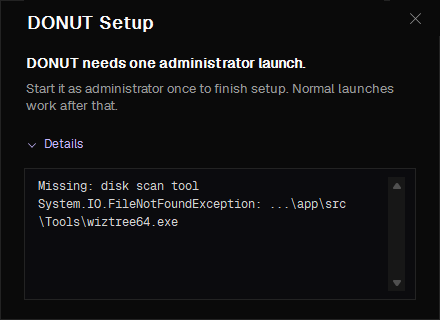
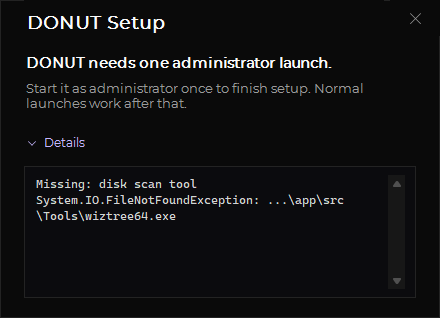
feat: cards breathe again, offline shows once, the copy pill hugs its value, and labels wear their case

diff --git a/src/UI/Views/Home/StatCards.xaml b/src/UI/Views/Home/StatCards.xaml
@@ -23,41 +23,42 @@
     <ColumnDefinition Width="*" />
   </Grid.ColumnDefinitions>
 
-  <Border Grid.Column="0" Margin="0,0,6,0" Style="{DynamicResource Card}">
+  <!-- Equal ink gaps, measured on a render: 16 between the lines, 18 to the edges; the copy pill's 2px chrome is why its margin is 6, not 8. -->
+  <Border Grid.Column="0" Margin="0,0,6,0" Style="{DynamicResource Card}" Padding="16,14,16,12">
     <StackPanel>
       <TextBlock Text="MACHINE" Style="{DynamicResource MicroLabel}" />
       <TextBox Text="{Binding SelectedMachine.OvModel, FallbackValue=—}" ToolTip="{Binding SelectedMachine.OvModel}"
                  Style="{DynamicResource StatValue}" />
-      <TextBox Style="{DynamicResource CopyableValue}" Text="{Binding SelectedMachine.OvModelSub, FallbackValue='no machine selected'}"
+      <TextBox Style="{DynamicResource CopyableValue}" Text="{Binding SelectedMachine.OvModelSub, FallbackValue='No machine selected'}"
                Tag="{Binding SelectedMachine.OvModelSubValue}" FontFamily="{DynamicResource FontSans}" FontSize="12"
-               Foreground="{DynamicResource BodyTextTertiary}" Margin="-4,2,0,0" />
+               Foreground="{DynamicResource BodyTextTertiary}" Margin="-5,6,0,0" />
     </StackPanel>
   </Border>
 
-  <Border Grid.Column="1" Margin="6,0,6,0" Style="{DynamicResource Card}">
+  <Border Grid.Column="1" Margin="6,0,6,0" Style="{DynamicResource Card}" Padding="16,14,16,12">
     <StackPanel>
       <TextBlock Text="BATTERY HEALTH" Style="{DynamicResource MicroLabel}" />
       <TextBox Text="{Binding SelectedMachine.OvBattery, FallbackValue=—}" ToolTip="{Binding SelectedMachine.OvBattery}"
                  Style="{DynamicResource StatValue}" />
       <TextBox Style="{DynamicResource SelectableText}" Text="{Binding SelectedMachine.OvBatterySub}"
                ToolTip="{Binding SelectedMachine.OvBatterySub}" FontFamily="{DynamicResource FontSans}" FontSize="12"
-               Foreground="{DynamicResource BodyTextTertiary}" Margin="0,2,0,0" />
+               Foreground="{DynamicResource BodyTextTertiary}" Margin="0,8,0,0" />
     </StackPanel>
   </Border>
 
-  <Border Grid.Column="2" Margin="6,0,6,0" Style="{DynamicResource Card}">
+  <Border Grid.Column="2" Margin="6,0,6,0" Style="{DynamicResource Card}" Padding="16,14,16,12">
     <StackPanel>
       <TextBlock Text="DISK" Style="{DynamicResource MicroLabel}" />
       <TextBox Text="{Binding SelectedMachine.OvDisk, FallbackValue=—}" ToolTip="{Binding SelectedMachine.OvDisk}"
                  Style="{DynamicResource StatValue}" />
       <TextBox Style="{DynamicResource SelectableText}" Text="{Binding SelectedMachine.OvDiskSub}"
                ToolTip="{Binding SelectedMachine.OvDiskSub}" FontFamily="{DynamicResource FontSans}" FontSize="12"
-               Foreground="{DynamicResource BodyTextTertiary}" Margin="0,2,0,0" />
+               Foreground="{DynamicResource BodyTextTertiary}" Margin="0,8,0,0" />
     </StackPanel>
   </Border>
 
   <!-- BIOS, not the update count, which the machine card and updates card already show. -->
-  <Border Grid.Column="3" Margin="6,0,0,0" Style="{DynamicResource Card}">
+  <Border Grid.Column="3" Margin="6,0,0,0" Style="{DynamicResource Card}" Padding="16,14,16,12">
     <StackPanel>
       <TextBlock Text="BIOS" Style="{DynamicResource MicroLabel}" />
       <TextBox Text="{Binding SelectedMachine.OvBios, FallbackValue=—}" ToolTip="{Binding SelectedMachine.OvBios}"

diff --git a/src/UI/Views/Home/LensPane.xaml b/src/UI/Views/Home/LensPane.xaml
@@ -63,36 +63,36 @@
         <RowDefinition Height="Auto" />
         <RowDefinition Height="Auto" />
       </Grid.RowDefinitions>
-      <Border Grid.Row="0" Grid.Column="0" Style="{DynamicResource Card}" Padding="12,8" Margin="0,0,6,12">
+      <Border Grid.Row="0" Grid.Column="0" Style="{DynamicResource Card}" Padding="12,10" Margin="0,0,6,12">
         <StackPanel>
           <TextBlock Text="EMAIL" Style="{DynamicResource MicroLabel}" />
           <TextBox Style="{DynamicResource CopyableValue}" Text="{Binding Email}" Tag="{Binding Email}"
                    FontFamily="{DynamicResource FontMono}" FontSize="12"
-                   Foreground="{DynamicResource TitleTextPrimary}" Margin="-4,3,0,0" />
+                   Foreground="{DynamicResource TitleTextPrimary}" Margin="-5,4,0,0" />
         </StackPanel>
       </Border>
-      <Border Grid.Row="0" Grid.Column="1" Style="{DynamicResource Card}" Padding="12,8" Margin="6,0,0,12">
+      <Border Grid.Row="0" Grid.Column="1" Style="{DynamicResource Card}" Padding="12,10" Margin="6,0,0,12">
         <StackPanel>
           <TextBlock Text="MANAGER" Style="{DynamicResource MicroLabel}" />
           <TextBox Style="{DynamicResource SelectableText}" Text="{Binding Manager}" ToolTip="{Binding Manager}"
                    FontFamily="{DynamicResource FontSans}" FontSize="13"
-                   Foreground="{DynamicResource TitleTextPrimary}" Margin="0,3,0,0" />
+                   Foreground="{DynamicResource TitleTextPrimary}" Margin="0,4,0,0" />
         </StackPanel>
       </Border>
-      <Border Grid.Row="1" Grid.Column="0" Style="{DynamicResource Card}" Padding="12,8" Margin="0,0,6,0">
+      <Border Grid.Row="1" Grid.Column="0" Style="{DynamicResource Card}" Padding="12,10" Margin="0,0,6,0">
         <StackPanel>
           <TextBlock Text="SAM" Style="{DynamicResource MicroLabel}" />
           <TextBox Style="{DynamicResource CopyableValue}" Text="{Binding Sam}" Tag="{Binding Sam}"
                    FontFamily="{DynamicResource FontMono}" FontSize="12"
-                   Foreground="{DynamicResource TitleTextPrimary}" Margin="-4,3,0,0" />
+                   Foreground="{DynamicResource TitleTextPrimary}" Margin="-5,4,0,0" />
         </StackPanel>
       </Border>
-      <Border Grid.Row="1" Grid.Column="1" Style="{DynamicResource Card}" Padding="12,8" Margin="6,0,0,0">
+      <Border Grid.Row="1" Grid.Column="1" Style="{DynamicResource Card}" Padding="12,10" Margin="6,0,0,0">
         <StackPanel>
           <TextBlock Text="OFFICE" Style="{DynamicResource MicroLabel}" />
           <TextBox Style="{DynamicResource SelectableText}" Text="{Binding Office}" ToolTip="{Binding Office}"
                    FontFamily="{DynamicResource FontSans}" FontSize="13"
-                   Foreground="{DynamicResource TitleTextPrimary}" TextWrapping="Wrap" Margin="0,3,0,0" />
+                   Foreground="{DynamicResource TitleTextPrimary}" TextWrapping="Wrap" Margin="0,4,0,0" />
         </StackPanel>
       </Border>
     </Grid>

diff --git a/src/UI/Views/Home/DetailPane.xaml b/src/UI/Views/Home/DetailPane.xaml
@@ -46,7 +46,7 @@
       </Grid.RowDefinitions>
 
       <!-- Job progress lives on the terminal's bar below, never in this header. -->
-      <Grid Grid.Row="0" Margin="0,0,0,12">
+      <Grid Grid.Row="0" Margin="0,0,0,14">
         <Grid.ColumnDefinitions>
           <ColumnDefinition Width="*" />
           <ColumnDefinition Width="Auto" />
@@ -54,17 +54,17 @@
           <ColumnDefinition Width="Auto" />
         </Grid.ColumnDefinitions>
         <StackPanel Grid.Column="0" VerticalAlignment="Center" HorizontalAlignment="Left">
-          <!-- Tag is HostName, never DetailTitle, which appends an offline suffix for display. -->
-          <TextBox Style="{DynamicResource CopyableValue}" Text="{Binding SelectedMachine.DetailTitle}"
+          <!-- Offline shows on the card's chip alone, so the title is the bare hostname. -->
+          <TextBox Style="{DynamicResource CopyableValue}" Text="{Binding SelectedMachine.HostName}"
                    Tag="{Binding SelectedMachine.HostName}"
                    FontFamily="{DynamicResource FontSans}" FontSize="18"
                    FontWeight="Bold" Foreground="{DynamicResource TitleTextPrimary}" />
           <!-- IP and uptime: the liveness facts. Probe freshness already shows on the card. -->
-          <StackPanel Orientation="Horizontal" Margin="0,2,0,0">
+          <StackPanel Orientation="Horizontal" Margin="0,4,0,0">
             <TextBox Style="{DynamicResource CopyableValue}" Text="{Binding SelectedMachine.DetailIp}"
                      Tag="{Binding SelectedMachine.DetailIp}"
                      FontFamily="{DynamicResource FontSans}" FontSize="11"
-                     Foreground="{DynamicResource BodyTextTertiary}" Margin="-4,0,0,0" />
+                     Foreground="{DynamicResource BodyTextTertiary}" Margin="-5,0,0,0" />
             <TextBlock Text="{Binding SelectedMachine.OvUptime, StringFormat=' · {0}'}"
                        VerticalAlignment="Center">
               <TextBlock.Style>

diff --git a/src/UI/Styles/ModernControls.xaml b/src/UI/Styles/ModernControls.xaml
@@ -113,17 +113,23 @@
                 Value="Copy" />
         <Setter Property="Padding"
                 Value="4,1" />
+        <!-- -5 = the pill's 1px border + its 4px padding, so the text sits on the value's origin. -->
         <Setter Property="Margin"
-                Value="-4,0,0,0" />
+                Value="-5,0,0,0" />
+        <!-- The pill hugs the value with equal side padding; the cap keeps a long one clipped. -->
+        <Setter Property="HorizontalAlignment"
+                Value="Left" />
+        <Setter Property="MaxWidth"
+                Value="{Binding ActualWidth, RelativeSource={RelativeSource AncestorType={x:Type Panel}}}" />
         <Setter Property="Template">
             <Setter.Value>
                 <ControlTemplate TargetType="TextBox">
+                    <!-- No Padding here: the TextBox already applies its own inside the content host. -->
                     <Border x:Name="pill"
                             Background="Transparent"
                             BorderBrush="Transparent"
                             BorderThickness="1"
-                            CornerRadius="5"
-                            Padding="{TemplateBinding Padding}">
+                            CornerRadius="5">
                         <ScrollViewer x:Name="PART_ContentHost"
                                       Focusable="False"
                                       HorizontalScrollBarVisibility="Hidden"
@@ -171,8 +177,9 @@
                 Value="SemiBold" />
         <Setter Property="Foreground"
                 Value="{DynamicResource TitleTextPrimary}" />
+        <!-- Montserrat sits taller than Segoe UI: 10 here is 16 of ink gap under the label. -->
         <Setter Property="Margin"
-                Value="0,6,0,0" />
+                Value="0,10,0,0" />
     </Style>
     <!-- Strips the default selection visuals, the row templates draw their own. -->
     <Style x:Key="MachineListItem"

diff --git a/src/UI/Views/Home/MachinePane.xaml b/src/UI/Views/Home/MachinePane.xaml
@@ -17,7 +17,7 @@
     </Grid.RowDefinitions>
 
     <!-- Mirrors the detail pane's [title | buttons] row so the two panes read as a pair. -->
-    <Grid Grid.Row="0" Margin="14,12,14,10">
+    <Grid Grid.Row="0" Margin="14,14,14,12">
       <TextBlock Text="Machines" Style="{DynamicResource TextPaneTitle}"
                  HorizontalAlignment="Left" VerticalAlignment="Center" />
       <Button x:Name="btnClearTabs" Content="Clear" Style="{DynamicResource ButtonSecondary}"
@@ -41,7 +41,7 @@
         <ListBox.ItemTemplate>
           <DataTemplate>
             <Border Margin="0,0,0,8" CornerRadius="10"
-                    Padding="14,10,8,10" HorizontalAlignment="Stretch" Cursor="Hand">
+                    Padding="14,12,8,12" HorizontalAlignment="Stretch" Cursor="Hand">
               <Border.Style>
                 <Style TargetType="Border">
                   <Setter Property="Background" Value="{DynamicResource PanelBackground}" />
@@ -99,7 +99,7 @@
                     </TextBlock>
                   </StackPanel>
                   <TextBlock Text="{Binding Subtitle}" Foreground="{DynamicResource BodyTextTertiary}"
-                             FontFamily="{DynamicResource FontMono}" FontSize="11"
+                             FontFamily="{DynamicResource FontMono}" FontSize="11" Margin="0,3,0,0"
                              TextTrimming="CharacterEllipsis" ToolTip="{Binding Subtitle}" />
                 </StackPanel>
                 <!-- No progress bar here, the live one sits atop the detail pane's terminal. -->

diff --git a/src/UI/Views/LoginWindow.xaml b/src/UI/Views/LoginWindow.xaml
@@ -1,6 +1,6 @@
 <Window xmlns="http://schemas.microsoft.com/winfx/2006/xaml/presentation"
         xmlns:x="http://schemas.microsoft.com/winfx/2006/xaml"
-        Title="Sign in"
+        Title="Sign In"
         SizeToContent="Height"
         Width="440"
         WindowStartupLocation="CenterScreen"
@@ -39,7 +39,7 @@
                   Grid.Row="0"
                   Background="Transparent"
                   Height="48">
-                <TextBlock Text="Sign in to GitHub"
+                <TextBlock Text="Sign In to GitHub"
                            Style="{DynamicResource TextPaneTitle}"
                            VerticalAlignment="Center"
                            HorizontalAlignment="Left"
@@ -117,7 +117,7 @@
                                TextDecorations="None">Create an account</Hyperlink>
                 </TextBlock>
                 <Button Command="{Binding AuthCommand}"
-                        Content="Sign in with GitHub"
+                        Content="Sign In with GitHub"
                         Style="{DynamicResource ButtonTintPrimary}"
                         Height="32"
                         MinWidth="150"

diff --git a/src/UI/Views/MainWindow.xaml b/src/UI/Views/MainWindow.xaml
@@ -299,7 +299,7 @@
                                          FontFamily="{DynamicResource FontMono}"
                                          FontSize="12"
                                          Foreground="{DynamicResource TitleTextPrimary}"
-                                         Margin="-4,3,0,0" />
+                                         Margin="-5,3,0,0" />
                             </StackPanel>
                         </Border>
                         <Border Grid.Column="1"
@@ -315,7 +315,7 @@
                                          FontFamily="{DynamicResource FontMono}"
                                          FontSize="12"
                                          Foreground="{DynamicResource TitleTextPrimary}"
-                                         Margin="-4,3,0,0" />
+                                         Margin="-5,3,0,0" />
                             </StackPanel>
                         </Border>
                     </Grid>

diff --git a/src/UI/Views/Settings/UpdateOptionsView.xaml b/src/UI/Views/Settings/UpdateOptionsView.xaml
@@ -22,7 +22,7 @@
                        Style="{DynamicResource SettingsFieldLabel}"
                        Margin="0,0,0,8" />
             <WrapPanel x:Name="updateType">
-                <CheckBox Content="Bios" Style="{DynamicResource ChipCheckBox}" />
+                <CheckBox Content="BIOS" Style="{DynamicResource ChipCheckBox}" />
                 <CheckBox Content="Firmware" Style="{DynamicResource ChipCheckBox}" />
                 <CheckBox Content="Driver" Style="{DynamicResource ChipCheckBox}" />
                 <CheckBox Content="Application" Style="{DynamicResource ChipCheckBox}" />

diff --git a/src/UI/Styles/Tokens.xaml b/src/UI/Styles/Tokens.xaml
@@ -31,7 +31,7 @@
         <Setter Property="CornerRadius"
                 Value="10" />
         <Setter Property="Padding"
-                Value="16,14" />
+                Value="16,16" />
     </Style>
 
     <!-- The centered card every overlay pops. Instances set Width and x:Name only. -->

diff --git a/docs/development/ui-reference.md b/docs/development/ui-reference.md
@@ -23,8 +23,8 @@ Two capitalization schemes, chosen by what the text *is*:
 
 | Scheme | Applies to | Example |
 |---|---|---|
-| **Title Case** | Buttons, menu items, headings, pane and section titles, tab and segment names, setting labels, dialog titles | `Clear Selected`, `Run All`, `Reveal Key`, `Close to Tray` |
-| **Sentence case** | Tooltips, hint and helper text, blank-slate copy, dialog message bodies, toasts | `Clears the folder contents and keeps the folder.` |
+| **Title Case** | Buttons, links that act, menu items, headings, pane and section titles, tab and segment names, setting labels, dialog titles, toast titles, status chips | `Clear Selected`, `Run All`, `Reveal Key`, `Close to Tray` |
+| **Sentence case** | Tooltips, hint and helper text, blank-slate copy, dialog message bodies, toast bodies | `Clears the folder contents and keeps the folder.` |
 
 Articles and short prepositions (of, to, in, with, for, as) stay lowercase in
 Title Case unless they lead or close the label, so `Start with Windows` is already
@@ -68,6 +68,8 @@ itself, not in a tooltip.
 | Job progress | Completeness Meter | One live bar (`DetailProgress`, atop the terminal), single driver `InventoryPresenter.ShowJobProgress`. Determinate from dcu's percent; `DcuProgress.IsInstalling` flips it indeterminate (installs report no sub-percentage). The remote dcu log is cleared before tailing so the bar never replays the prior run. |
 | Toasts | Status Feedback | One accent, two carriers: the 4px bar and the title. The border is `PanelBorder` and there is no glow. The card is a polite live region (`AutomationProperties.LiveSetting`). |
 | Update outcome | Status Feedback | An `Updating` toast as the download starts (the download blocks the UI thread, so `UpdatePresenter.PaintNow` pumps the toast onto the screen first), and on the relaunch a success or warning toast naming the version landed on, from a one-read marker (`SelfUpdateService.TakePendingUpdate`). The install itself runs with DONUT closed: msiexec's passive bar covers the MSI path, and the zip path stays silent. |
+| Offline state | Status Feedback | One carrier: the red dot plus the `Offline` chip on the machine card. The detail title and the card subtitle no longer repeat the word (they did, three times on one screen), so the chip is where offline reads and the hostname stays a clean copy target. |
+| Stacked text in cards | Cards | Montserrat sits taller than Segoe UI and the ladder rounded every size up, so the old gaps read cramped. Label to value 8px on stat tiles (`StatValue`), 4px on dense tiles, 3px under a card title, card padding `16,16` (dense tiles `12,10`), machine rows `14,12,8,12`. A stat tile keeps equal ink gaps, measured on a render: 16 between label, value and sub line, 18 from the top and bottom edges (`Padding="16,14,16,12"`, `StatValue` margin 10, sub line margin 8, or 6 on a copy pill, whose 2px chrome makes up the difference). The sub line starts flush with the value, not indented by its pill. Whitespace inside a card, not more chrome. |
 | Motion | *(a11y)* | Every storyboard waits on `SystemParameters.ClientAreaAnimation`, the OS "show animations" setting, as a `MultiDataTrigger` condition on `{Binding Source={x:Static SystemParameters.ClientAreaAnimation}}`. With it off, a toast shows and hides at once and the progress pulse holds still. |
 | Focus and names | *(a11y)* | Every focusable control carries `FocusRingVisual`, the `controlButton` family and `Hyperlink`s included. Every icon-only control carries `AutomationProperties.Name`, because a `ToolTip` reaches UIA as help text. |
 | Window controls | Reduction | Windows chrome: neutral hover (`TitleTextPrimary`) on minimize, maximize, and the help trio. Red is Close's alone. |
@@ -85,11 +87,11 @@ itself, not in a tooltip.
 | QR overlay (BitLocker) | *(hardware constraint)* | Inverted by choice: violet modules on the dark card, 12px quiet zone. Field-gated on the hardware scanner: if it fails the scan test, revert to dark-on-light (`QrModule*` keys), don't tweak colours. |
 | Lens person pane | Card layout | The person's facts (EMAIL/MANAGER/SAM/OFFICE) sit in a 2×2 grid of dense bordered `Card` tiles (`Padding="12,8"`, 6/6 gutters), the temp-password overlay's person-fields pairing: `MicroLabel` over a `TitleTextPrimary` value, identity strings (email, SAM) in mono. The DEVICES/SOFTWARE header toggles the list slot, whose rows (devices and software alike) are borderless `SurfaceSolid` at radius 8, a half step above the pane, below the fact tiles' bordered cards, and far enough from the `Secondary` button gray that the rows' `ButtonSecondary` actions keep their contrast (the machine detail's lighter `PanelBackgroundHover` sat too close to it, and anything below the pane fill reads as a hole). Software rows share the device rows' column anatomy: name over collection, the package program as a right-aligned `BadgeMuted` chip that collapses on application rows. Revealed BitLocker keys sit on a `TintGreen` surface (radius 8), the card's one accent. |
 | Lens device card | *(no catalogue entry)* | Two lines, three tiers: model in `TitleTextPrimary` (it separates the machines), `Tag <service tag>` mono, last-seen sans, both tertiary. OS lives in the row tooltip. Collapsing separators so a missing value leaves no orphaned dot. |
-| Copyable values | *(Fluent: copy affordance)* | A short single-line value **is** the copy target (`CopyableValue`), not a glyph beside it: plain at rest, a `SurfaceMuted` pill on hover, a `Copy` tooltip. `Tag` carries the clipboard payload, because the rendered string may be decorated (`DetailTitle` appends an offline suffix; `TagText` and `OvModelSub` prefix `Tag `). One window-level `MouseLeftButtonUp` handler serves them all, since Lens rows are template-built; it copies only when `SelectionLength` is 0, so a drag still selects. Only a value that gets pasted into another tool earns it; the BitLocker key keeps a glyph, being the one that wraps. |
-| Startup errors (`ErrorDialog`) | Modal Windows | A hand-themed WinForms window, since these fire before WPF and two of them fire *because* it failed. It draws the same chrome as `DialogWindow` (48px header, the X as a painted 10px glyph with the Destructive hover, 24px gutters) and sets its text in the embedded Geist through GDI+; the details box keeps the mono fallback. Popup chrome contract, and **no footer at all**: an error carries no decision, and a dismiss-only button is banned. One-line reason, a short action line in the docs' voice, then the exception behind a Details toggle on `TerminalBackground`, read-only so it can be pasted. Every call site passes reason and detail separately. |
+| Copyable values | *(Fluent: copy affordance)* | A short single-line value **is** the copy target (`CopyableValue`), not a glyph beside it: plain at rest, a `SurfaceMuted` pill on hover that hugs the value (left-aligned, equal side padding, capped at its container so a long value still clips), a `Copy` tooltip. The template leaves `Padding` to the TextBox itself (a `TemplateBinding` applied it twice), and the `-5` margin is the pill's border plus padding, so its text sits on the value's origin. `Tag` carries the clipboard payload, because the rendered string may be decorated (`TagText` and `OvModelSub` prefix `Tag `). One window-level `MouseLeftButtonUp` handler serves them all, since Lens rows are template-built; it copies only when `SelectionLength` is 0, so a drag still selects. Only a value that gets pasted into another tool earns it; the BitLocker key keeps a glyph, being the one that wraps. |
+| Startup errors (`ErrorDialog`) | Modal Windows | A hand-themed WinForms window, since these fire before WPF and two of them fire *because* it failed. It draws the same chrome as `DialogWindow` (48px header, the X as a painted 10px glyph with the Destructive hover, 24px gutters) and sets its text in the embedded Montserrat through GDI+; the details box keeps the mono fallback. Popup chrome contract, and **no footer at all**: an error carries no decision, and a dismiss-only button is banned. One-line reason, a short action line in the docs' voice, then the exception behind a Details toggle on `TerminalBackground`, read-only so it can be pasted. Every call site passes reason and detail separately. |
 | Elevation state | Status Feedback | A standing amber `LIMITED` badge (`BadgeAmber` recipe) beside the wordmark, full sentence in the tooltip. Driven by `ElevationContext::IsElevated()`, never by `runAsAdmin`, so the badge reports what the process actually got. The running version sits beside it in the same tier as a `ButtonBadge`, copying on click, because reporting one is the only reason it is on screen. |
 | Surfacing from tray | Modal Windows | The deferred sign-in/update prompt runs **before** `Window.Show()`, matching the cold start. A cancelled sign-in still shows the main window. |
-| Tokens | *(visual language)* | Fonts: Geist and Geist Mono, embedded under `src/UI/Styles/Fonts` (OFL), the docs site's families; Segoe UI and Cascadia Mono fall back. One type ladder, 11 / 12 / 13 / 14 / 16 / 18, as roles in `Tokens.xaml`: `TextPaneTitle` 18/Bold > `TextTitle` 16 > `TextSubtitle` 14 > `TextBody` 13 > `TextMeta` 12 > `TextCaption` 11. Stat tiles use `StatValue` (18) + `MicroLabel` (11), buttons 13 Medium. A `TextBlock` takes a role, not an inline `FontFamily`/`FontSize`/`Foreground` triple, unless a trigger restyles it (a triggered `Style` cannot `BasedOn` a `DynamicResource`). A `TextBox` value stays inline, on the ladder. Badges are the 3-colour `Badge*` family, never hand-rolled. Radii: 10 cards, 8.4 controls/chips, 7 dropdown rows, 6 small chips. Glyphs pin `FontSymbol`. |
+| Tokens | *(visual language)* | Fonts: Montserrat (sans) and Geist Mono, embedded under `src/UI/Styles/Fonts` (OFL); Segoe UI and Cascadia Mono fall back. The docs site keeps Geist for its own text. One type ladder, 11 / 12 / 13 / 14 / 16 / 18, as roles in `Tokens.xaml`: `TextPaneTitle` 18/Bold > `TextTitle` 16 > `TextSubtitle` 14 > `TextBody` 13 > `TextMeta` 12 > `TextCaption` 11. Stat tiles use `StatValue` (18) + `MicroLabel` (11), buttons 13 Medium. A `TextBlock` takes a role, not an inline `FontFamily`/`FontSize`/`Foreground` triple, unless a trigger restyles it (a triggered `Style` cannot `BasedOn` a `DynamicResource`). A `TextBox` value stays inline, on the ladder. Badges are the 3-colour `Badge*` family, never hand-rolled. Radii: 10 cards, 8.4 controls/chips, 7 dropdown rows, 6 small chips. Glyphs pin `FontSymbol`. |
 
 ## Colour hierarchy (button variants)
 

diff --git a/docs/development/decisions.md b/docs/development/decisions.md
@@ -349,6 +349,24 @@ The faux window that stood in on the splash is gone: `tools\Show-View.ps1 -Main`
 composes the real main window with sample data and renders it off-screen, so the
 splash shows an actual screenshot and `assets/Screenshots` is current again.
 
+### Montserrat, shipped this time
+
+The audit swapped the never-shipped Montserrat for the docs site's Geist. Rendered
+side by side (`tools\Show-View.ps1 -Main -Font 'Segoe UI'` against the embedded
+face), the choice came down to Montserrat or Segoe UI, and Montserrat won on look.
+So the sans is Montserrat for real now: the four static weights are embedded under
+`src/UI/Styles/Fonts` (OFL) and the launcher's pre-WPF dialog loads the same files.
+Geist Mono stays for the mono tier, and the site keeps Geist for its own text.
+
+Two things came with it. Montserrat sits taller than Segoe UI and the type ladder
+rounded every size up, so the gaps inside cards read cramped until they grew with
+the face; a stat tile now keeps equal ink gaps, measured on a render rather than
+eyeballed: 16 between its three lines and 18 from the top and bottom edges. The
+copy pill on a value hugs the value instead of spanning the row. And the
+casing rules were re-applied to what the audit missed (`Sign In`, `What's New`,
+`Press Keys…`, `BIOS`, `Reboot Required`), with the reference now naming status
+chips and toast titles as Title Case and toast bodies as sentence case.
+
 ## Releasing
 
 The current rules live in [Releasing](./releasing.md); this is why the version
